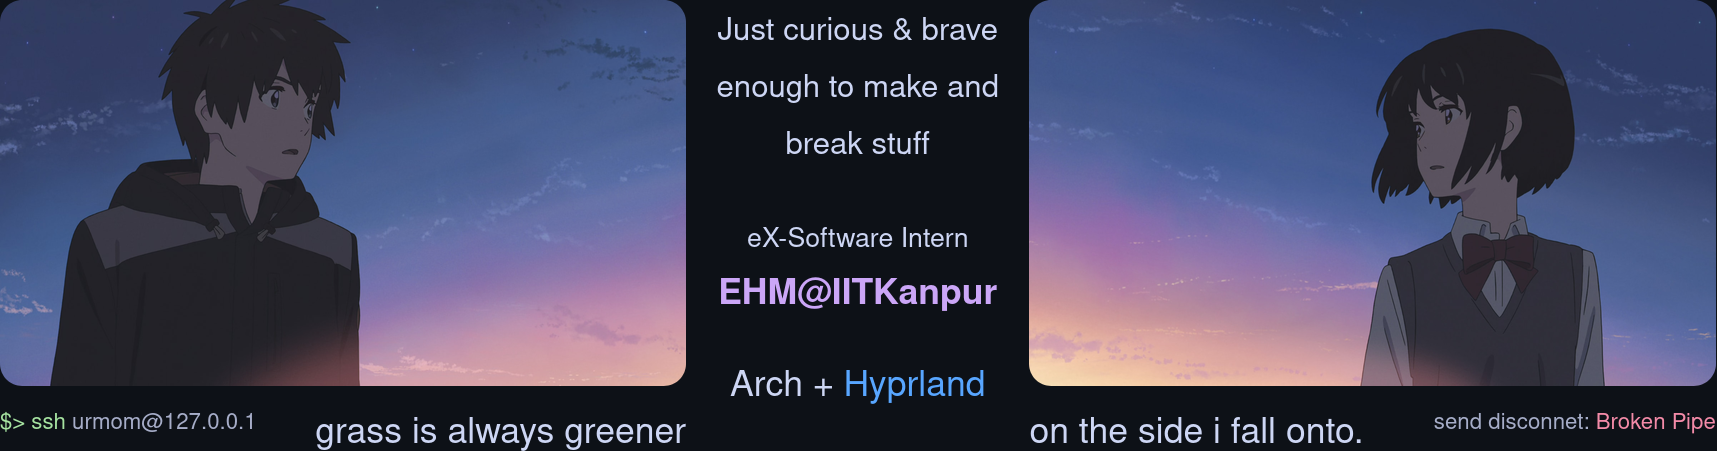
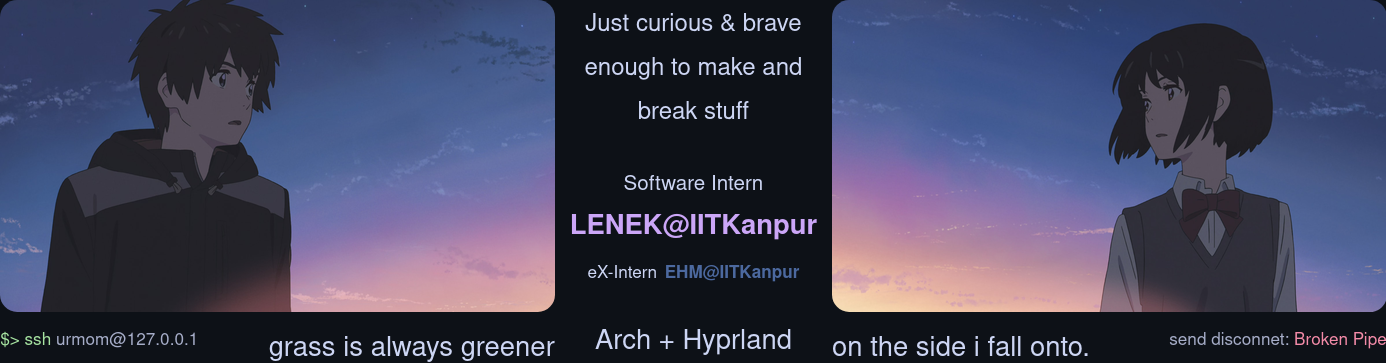
updated the intern status

diff --git a/README.md b/README.md
@@ -15,10 +15,10 @@
 <!---->
 <!-- <span style="font-size: 14px; color: #CDD6F4;">Just curious & brave enough to make and break stuff</span> -->
 <!---->
-<!-- <span style="font-size:12px">eX-Software Intern</span> **<span style="color: #CBA6F7;">EHM@IITKanpur</span>** -->
+<!-- <span style="font-size:12px">Software Intern</span> **<span style="color: #CBA6F7;">LENEK@IITKanpur</span>** -->
+<!-- <span style="font-size:10px">eX-Intern</span> **<span style="color: #4c699f; font-size:10px">EHM@IITKanpur</span>** -->
 <!---->
-<!-- Arch + [Hyprland](https://github.com/hyprwm/hyprland) -->
-<!---->
+<!-- Arch + Hyprland -->
 <!-- </td> -->
 <!-- <td valign="top" width="40%" align="center" style="border: none; padding: 0px;"> -->
 <!-- <img style="border-radius:10px;" src="assets/mitsuha.jpg" /> -->
